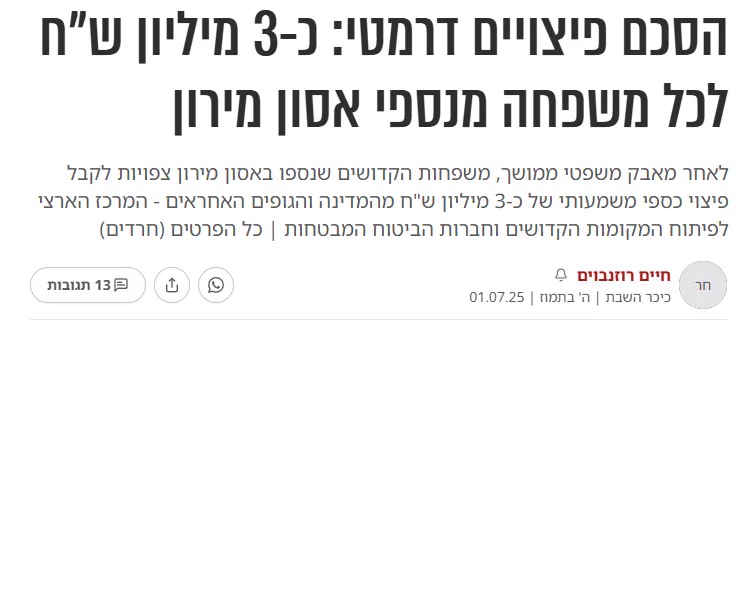
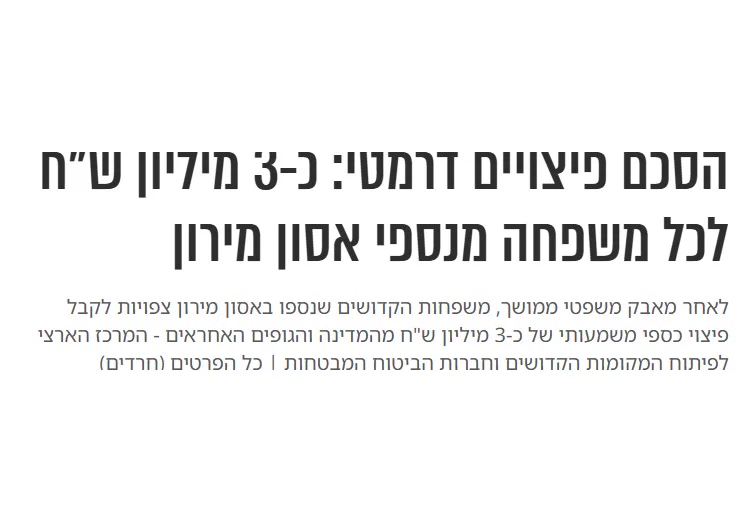
Center Meron thumbnail, enable zoom on carousel modal images

diff --git a/src/components/MediaCards.jsx b/src/components/MediaCards.jsx
@@ -255,7 +255,13 @@ function Modal({ card, activeTab, setActiveTab, onClose }) {
               {card.images && card.images.length > 0 && (
                 <div className="mc-photos-row">
                   {card.images.map((src) => (
-                    <img key={src} src={src} alt={card.title} className="mc-photos-item" />
+                    <img
+                      key={src}
+                      src={src}
+                      alt={card.title}
+                      className="mc-photos-item mc-article-image-zoom"
+                      onClick={() => setZoomSrc(src)}
+                    />
                   ))}
                 </div>
               )}
